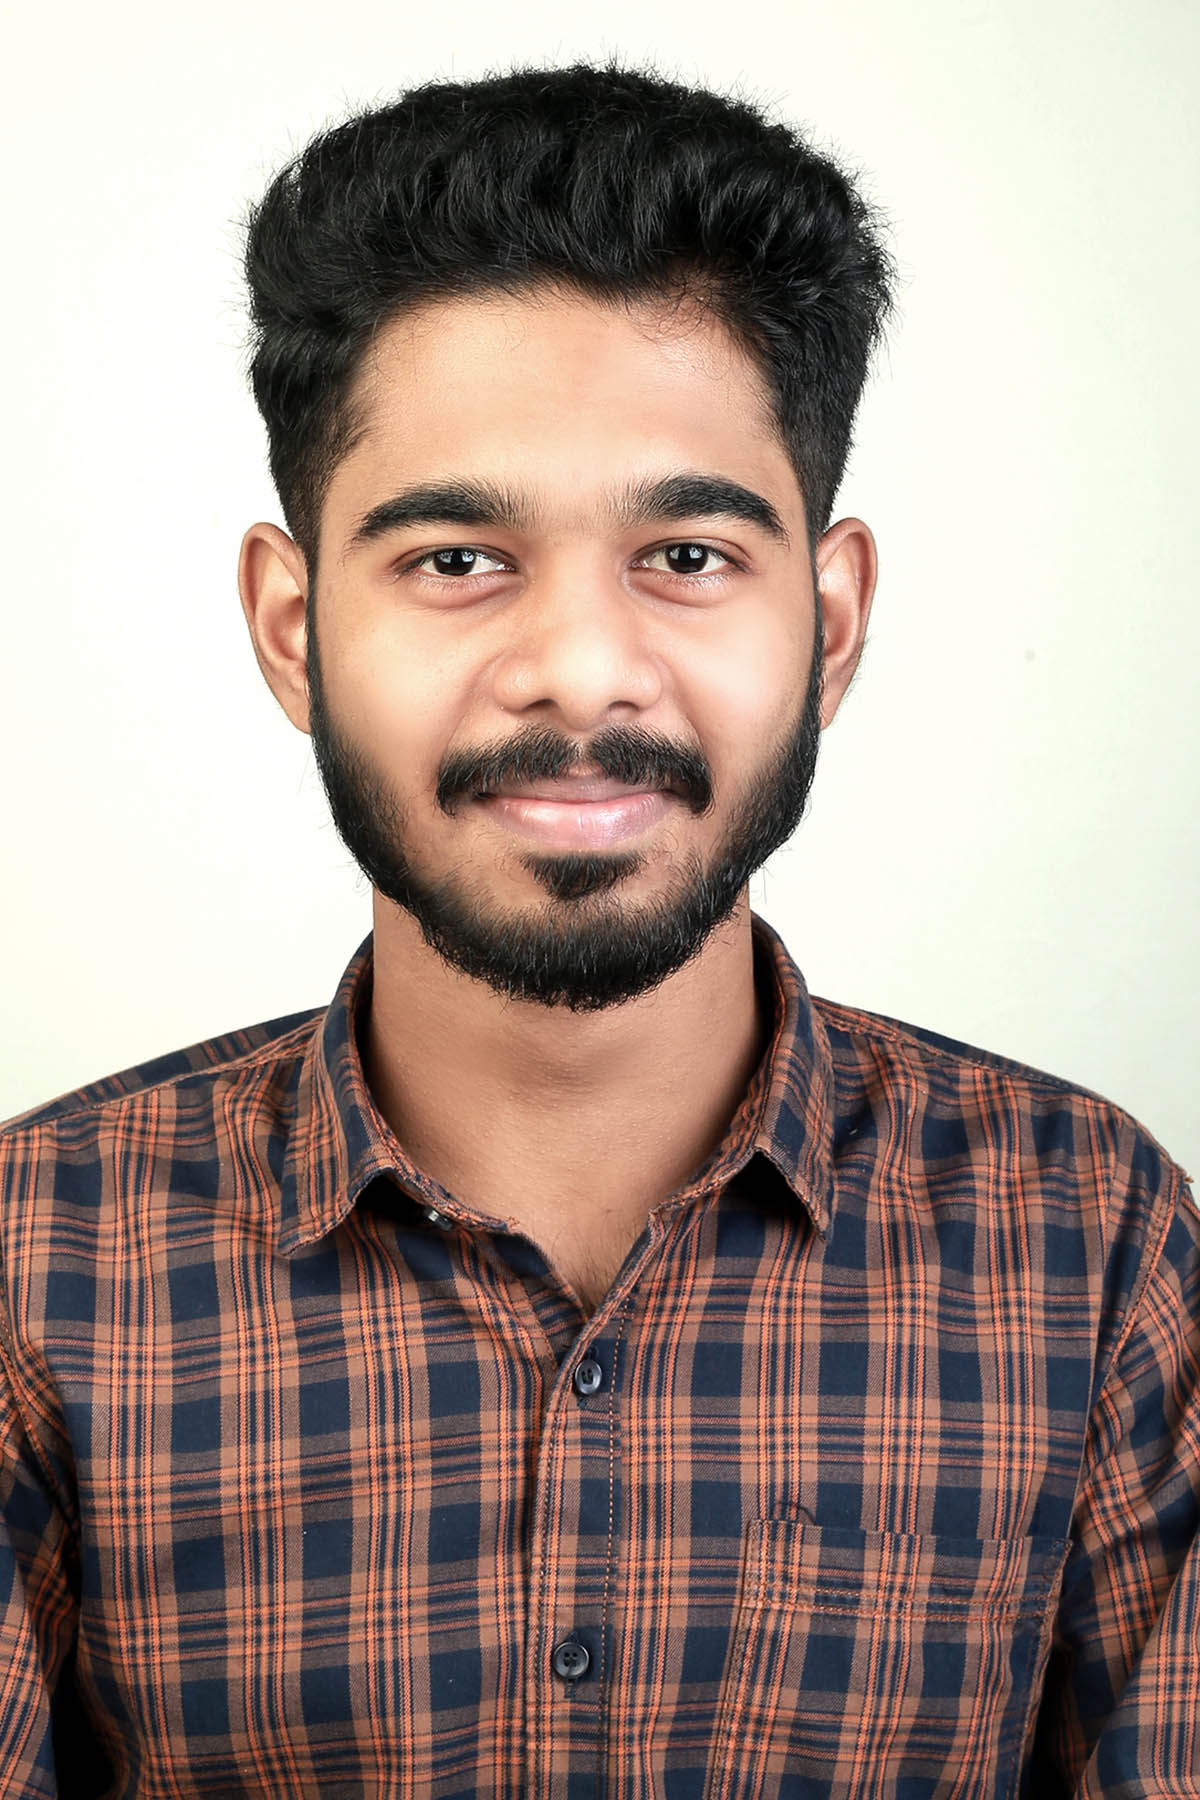
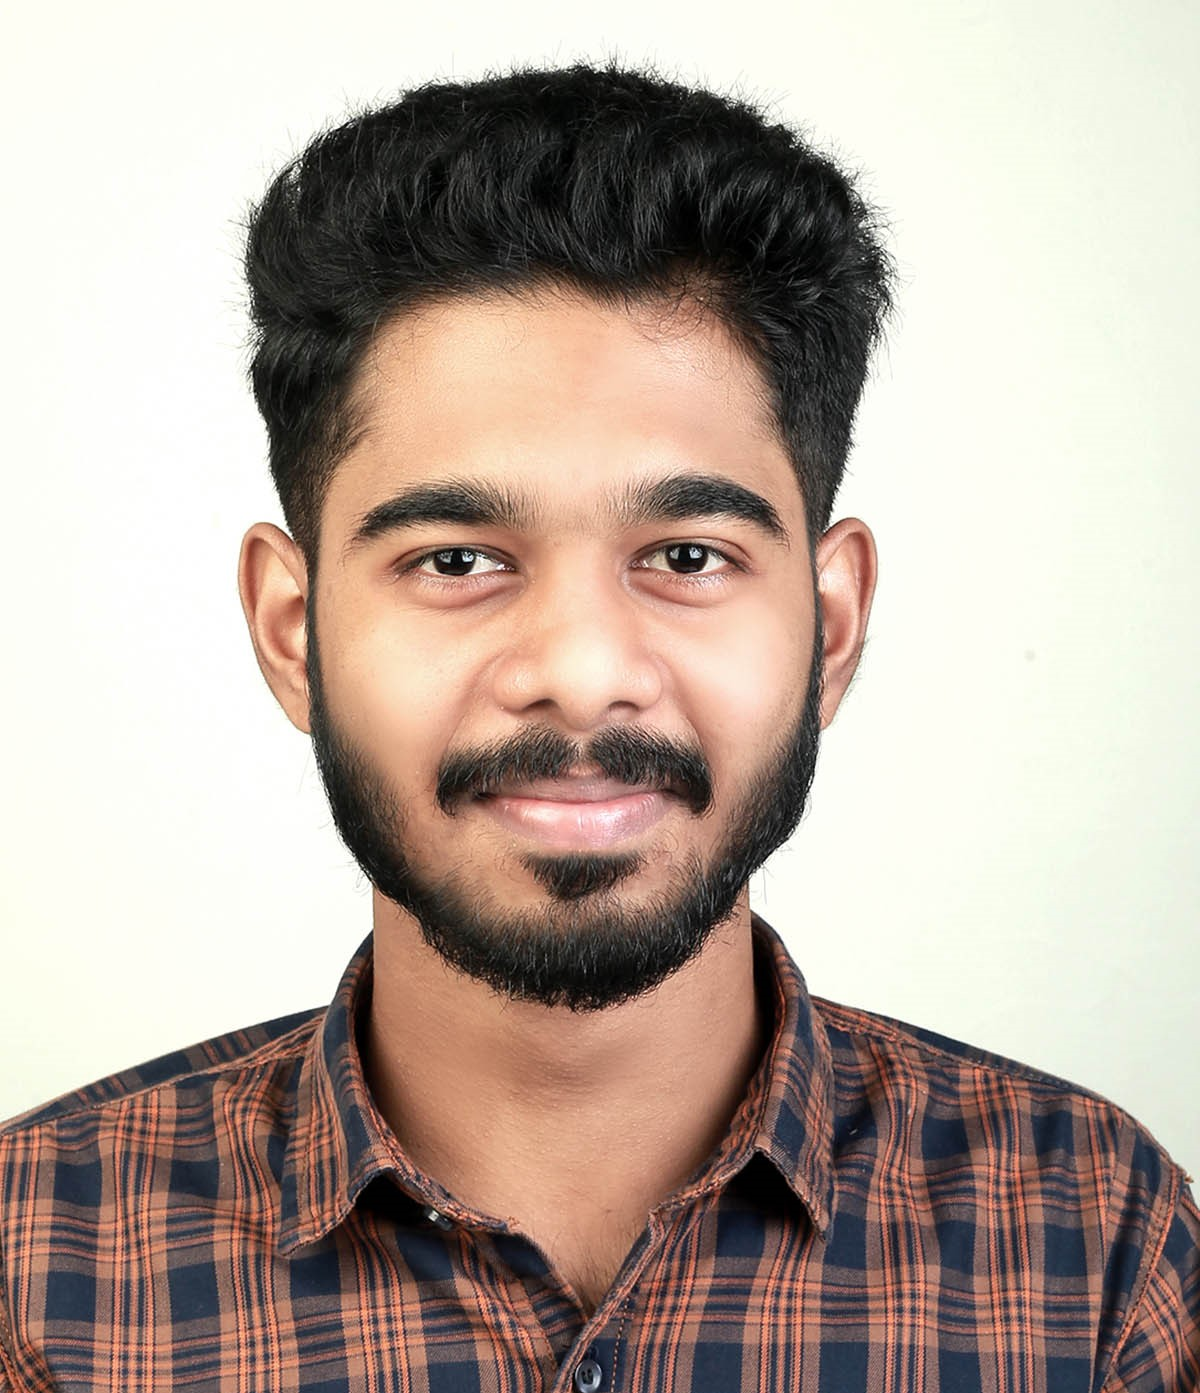
Image
main image changed and profile size reduced

diff --git a/style.css b/style.css
@@ -205,7 +205,7 @@ p {
 
 /* Hero Section */
 #hero {
-	background-image: url(img/main.jpeg);
+	background-image: url(img/main-hero.jpg);
 	background-size: cover;
 	background-position: top center;
 	position: relative;
